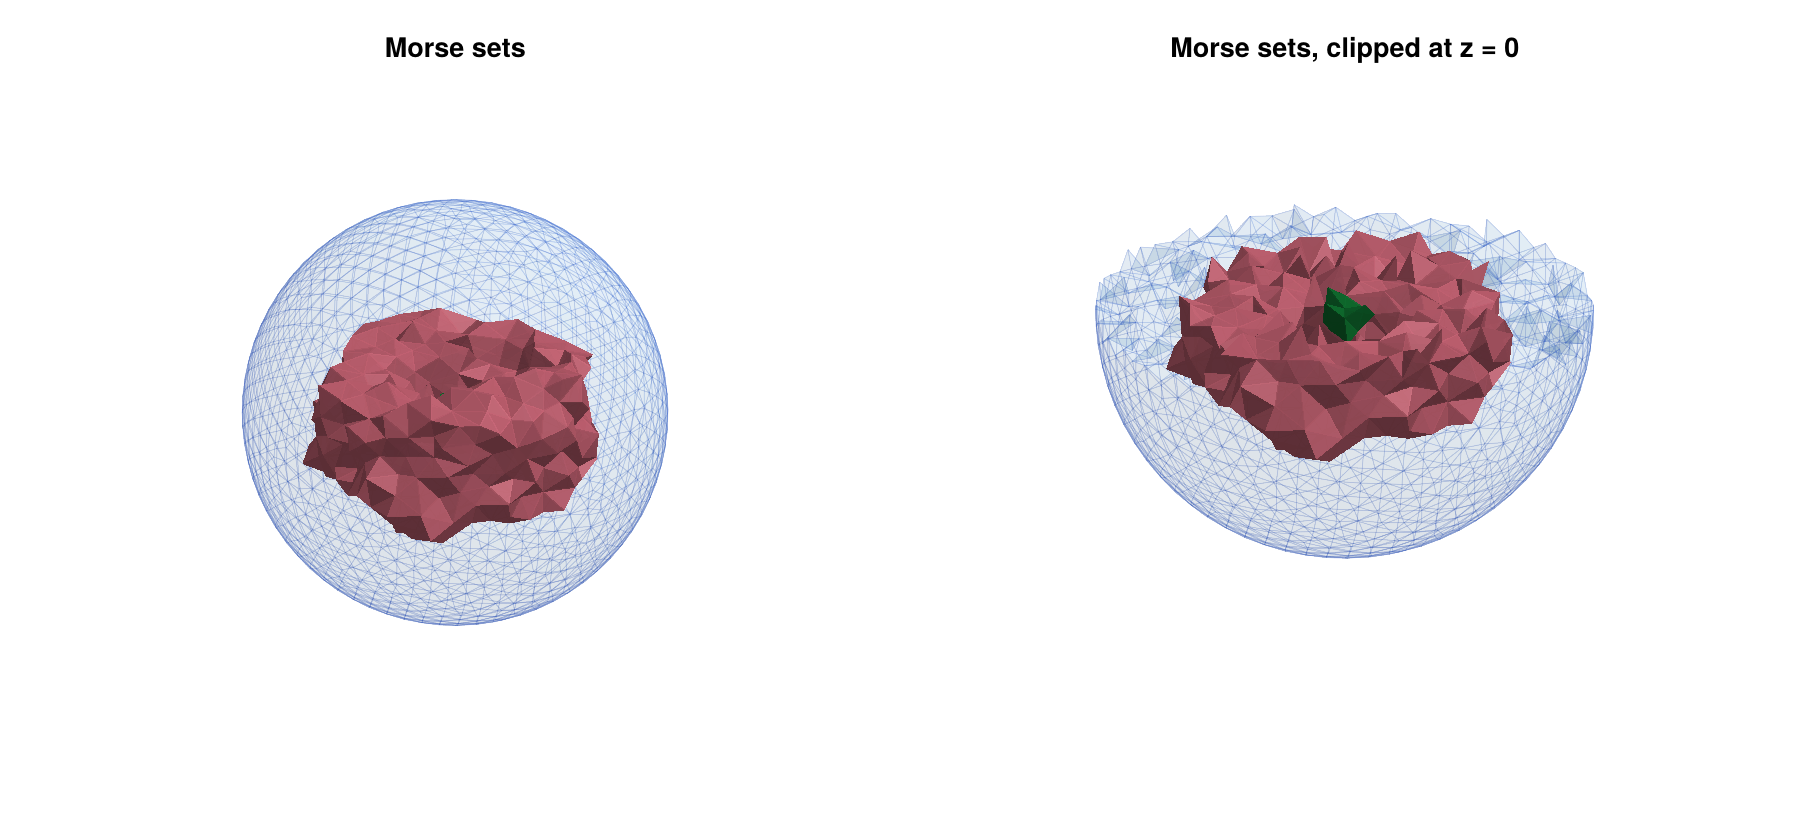
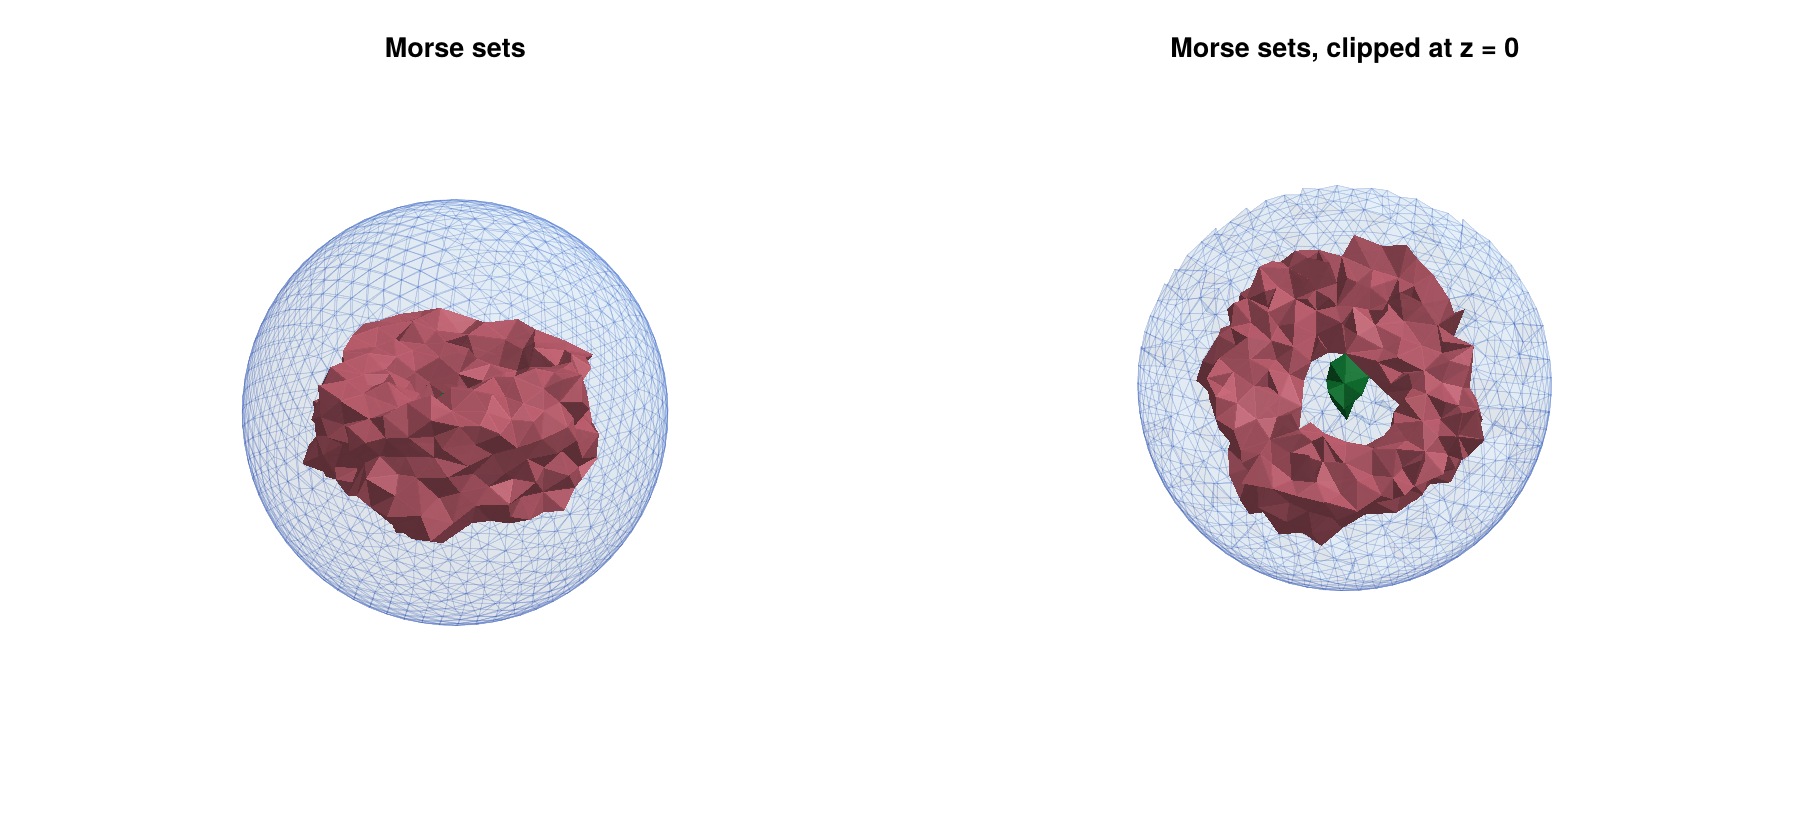
Clarified the conversion of Gmsh meshes in the manual chapter on three-dimensional meshes and in the docstring of gmsh_to_simplicial. The manual now explains that the argument of gmsh.model.mesh.generate is the largest dimension to be meshed, and that Gmsh builds the mesh from the bottom up, dividin

Changed region(s): [[0.5911, 0.2121, 0.9022, 0.7273]]

diff --git a/docs/src/man/meshing3d.md b/docs/src/man/meshing3d.md
@@ -1519,8 +1519,8 @@ our context, it can compute *boolean operations* on such entities. In
 particular, it can handle constraint surfaces which intersect each other.
 
 To see why this matters, consider a box which contains a plane at height
-`z = 0.3` and a sphere around the origin. The plane and the sphere
-intersect in a circle. A conforming mesh which contains both surfaces
+`z = 0.3`, as well as a sphere around the origin intersecting it in a
+circle. A conforming mesh which contains both surfaces
 has to contain this circle as a union of edges, and the triangles of the
 plane and the sphere have to be split along it. `TetGen` cannot do this,
 since it requires non-intersecting facets, see the
@@ -1579,31 +1579,66 @@ homology(ec)                   # [1, 0, 0, 0]
 
 The call to `gmsh.model.occ.synchronize()` transfers the CAD geometry to
 the model, and it is needed after every change of the geometry. The
-command `gmsh.model.mesh.generate(3)` creates a tetrahedral mesh, which
-also contains triangles on all surfaces, edges on all curves, and
-vertices at all points. The function [`gmsh_to_simplicial`](@ref) only
-reads the current model. It neither initializes nor finalizes `Gmsh`, so
-that the model is still available afterwards. By default, it converts the
-tetrahedra. With the optional argument `dim=2`, it converts the
-triangles instead, which gives the boundary surface of the box as a
-two-dimensional complex (and `dim=1` converts the edges on the curves of
-the model, which gives a graph):
+argument of `gmsh.model.mesh.generate` is the largest dimension to be
+meshed, and `Gmsh` builds the mesh from the bottom up. The command
+`gmsh.model.mesh.generate(1)` divides all curves of the model into line
+segments. The command `gmsh.model.mesh.generate(2)` does this as well,
+and then covers all surfaces with triangles, which fit the segments on
+their boundary curves. Finally, `gmsh.model.mesh.generate(3)` performs
+both of these steps, and then fills all volumes with tetrahedra, which
+fit the triangles on their boundary surfaces. The resulting mesh
+therefore contains vertices at all points, edges on all curves,
+triangles on all surfaces, and tetrahedra in all volumes.
+
+The function [`gmsh_to_simplicial`](@ref) only reads the current model.
+It neither initializes nor finalizes `Gmsh`, so that the model is still
+available afterwards. By default, it converts the tetrahedra, and adds
+all their faces. With the optional argument `dim=2`, it converts the
+triangles instead, and with `dim=1` the edges. Note, however, that
+`Gmsh` does not store all faces of the tetrahedra as mesh elements.
+Every element belongs to one geometric entity of the model, i.e.,
+tetrahedra belong to volumes, triangles to surfaces, and edges to
+curves, while the triangles and edges in the interior of a volume are
+not stored. Therefore, `dim=2` only converts the triangles on the
+surfaces of the model, and not all triangles of the tetrahedral mesh.
+For the box, this gives its boundary surface as a two-dimensional
+complex. If the model contains interior surfaces, such as the interface
+between two volumes, their triangles are included as well. Similarly,
+`dim=1` only converts the edges on the curves of the model, which for
+the box gives the graph formed by its twelve edges:
 
 ```julia
 ecs = gmsh_to_simplicial(dim=2)
 lefschetz_cell_count(ecs)      # [323, 963, 642]
 homology(ecs)                  # [1, 0, 1]
+
+ecg = gmsh_to_simplicial(dim=1)
+lefschetz_cell_count(ecg)      # [76, 80]
+homology(ecg)                  # [1, 5]
 ```
+
+Compared to the tetrahedral mesh, the surface complex lacks the 84
+vertices and 1148 edges in the interior of the box, and contains only
+642 of its 3089 triangles. The graph has the first Betti number five,
+since the eight corners and twelve edges of the box give the Euler
+characteristic `8 - 12 = -4 = 1 - 5`.
 
 The optional argument `p` selects the coefficient field as usual. The
 `Gmsh` node numbering can have gaps, and nodes which do not belong to
 the converted elements are dropped. The vertices are then numbered
 consecutively, and they are labeled as in
 [`tetmesh_to_euclidean`](@ref), for example `"001"`, `"002"`, and so on
-for a mesh with between 100 and 999 vertices. Only linear simplices are
-supported. If the mesh contains hexahedra, prisms, or pyramids, for
-example because of recombination options, or second order elements
-created by `gmsh.model.mesh.setOrder(2)`, an `ArgumentError` is raised.
+for a mesh with between 100 and 999 vertices.
+
+Only linear simplices are supported, i.e., edges, triangles, and
+tetrahedra whose nodes are their vertices. If the elements of dimension
+`dim` include other types, an `ArgumentError` is raised. This happens
+for quadrangles, hexahedra, prisms, and pyramids, which `Gmsh` creates
+with its recombination options. It also happens for second order
+elements, which `gmsh.model.mesh.setOrder(2)` creates by adding nodes
+on the edges to follow curved geometry. Only the elements of dimension
+`dim` are checked. For example, a hexahedral mesh can still be
+converted with `dim=1`, since its edges are linear.
 
 ### Physical Groups and Entities
 
@@ -1644,10 +1679,10 @@ nodes does not matter.
 
 ### Intersecting Constraint Surfaces
 
-We now return to the example from the introduction of this section: A
-box `[-2,2]^3` which contains the plane `z = 0.3` and the unit sphere,
-both as constraint surfaces. What we are looking for is a *common
-refinement* of the box, the plane, and the sphere: A tetrahedral mesh
+We now return to the example from the introduction of this section. Consider
+a box `[-2,2]^3` which contains the plane `z = 0.3` and the unit sphere,
+both as constraint surfaces. What we are looking for is a *common refinement*
+of the box, the plane, and the sphere, i.e., a tetrahedral mesh
 of the box in which the plane and the sphere are both unions of
 triangles, and in which their intersection, the circle, is a union of
 edges. In the language of [Basic Notions](@ref meshing3d_notions), the
@@ -1690,7 +1725,7 @@ and the tags come without orientation signs. The function
 [`gmsh_common_refinement`](@ref) expects a vector of *objects*, where
 every object is either a single entity `(dim, tag)`, such as the box and
 the plane, or a vector of entities of the same dimension, such as the
-boundary surfaces of the sphere. It splits all objects along their
+boundary surface of the sphere. It splits all objects along their
 mutual intersections, and it returns one physical group for every
 object, which contains all pieces of this object. The optional argument
 `names` gives these groups names, which are also stored in mesh files.
@@ -1766,8 +1801,8 @@ unique(ec.dimensions[toptri]), length(toptri)        # ([2], 206)
 ```
 
 Finding the intersection circle as an entity is slightly more involved,
-since the OpenCASCADE sphere has a *seam*: A meridian curve along which
-the parametrization of the sphere is glued. Its pieces belong to the
+since the OpenCASCADE sphere has a *seam*, i.e., a meridian curve along 
+which the parametrization of the sphere is glued. Its pieces belong to the
 boundary of the caps as well. The intersection circle is the curve which
 the two caps have in common:
 
@@ -1905,7 +1940,7 @@ gmsh.finalize()
 ```
 
 The physical groups are numbered in the order in which they were
-created: The box, the plane, and the sphere by
+created, i.e., the box, the plane, and the sphere by
 [`gmsh_common_refinement`](@ref), and the upper part of the box
 afterwards. Their tags are therefore `1` to `4`, and each tag comes
 with the dimension of its group.
@@ -1925,8 +1960,8 @@ with the dimension of its group.
 ### Common Refinements of Several Objects
 
 The function [`gmsh_common_refinement`](@ref) accepts any number of
-objects of dimensions `0` to `3`: Volumes, surfaces, curves, and single
-points. All of them are refined together, so that the mesh of every
+objects of dimensions `0` to `3`, i.e., volumes, surfaces, curves, and 
+single points. All of them are refined together, so that the mesh of every
 object is a subcomplex, and the intersection of any two objects is the
 intersection of their subcomplexes. As a second example, consider two
 unit spheres around the points `(-1/2, 0, 0)` and `(1/2, 0, 0)`, which
@@ -2001,9 +2036,9 @@ ec3 = gmsh_to_simplicial()
 
 plane_cells = gmsh_marker_cells(ec3, 2, pg_plane)
 ball_cells  = gmsh_marker_cells(ec3, 3, pg_ball)
-homology(lefschetz_subcomplex(ec3, ball_cells))                         # [1, 0, 0, 0]
+homology(lefschetz_subcomplex(ec3, ball_cells))                          # [1, 0, 0, 0]
 homology(lefschetz_subcomplex(ec3, intersect(plane_cells, ball_cells)))  # [1, 0, 0]
-maximum(maximum(abs.(ec3.coords[k][1])) for k in plane_cells)          # 2.0
+maximum(maximum(abs.(ec3.coords[k][1])) for k in plane_cells)            # 2.0
 gmsh.finalize()
 ```
 
@@ -2150,11 +2185,12 @@ and column `3` connects the two-dimensional entry of the equilibrium
 with the one-dimensional entry of the periodic orbit, and records the
 connection from the equilibrium to the periodic orbit. The computation
 takes a few seconds. The Morse sets are shown in the figure of the Morse
-sets of the vector field with a periodic orbit in a ball. The clipped
-view in the right panel reveals the small Morse set of the equilibrium
-inside the much larger isolating neighborhood of the periodic orbit.
-With a coarser mesh size of `0.3`, the multivector field is not fine
-enough to separate the two invariant sets, and one obtains a single
+sets of the vector field with a periodic orbit in a ball. The right
+panel shows the lower half of the ball from above. The Morse set of the
+periodic orbit is a solid torus around the unit circle, and the small
+Morse set of the equilibrium lies in its hole, separated from it by a
+gap. With a coarser mesh size of `0.3`, the multivector field is not
+fine enough to separate the two invariant sets, and one obtains a single
 Morse set with the Conley index of an attractor.
 
 ![Morse sets of a vector field with a periodic orbit in a ball meshed by Gmsh](img/meshing3d_cycle.png)
